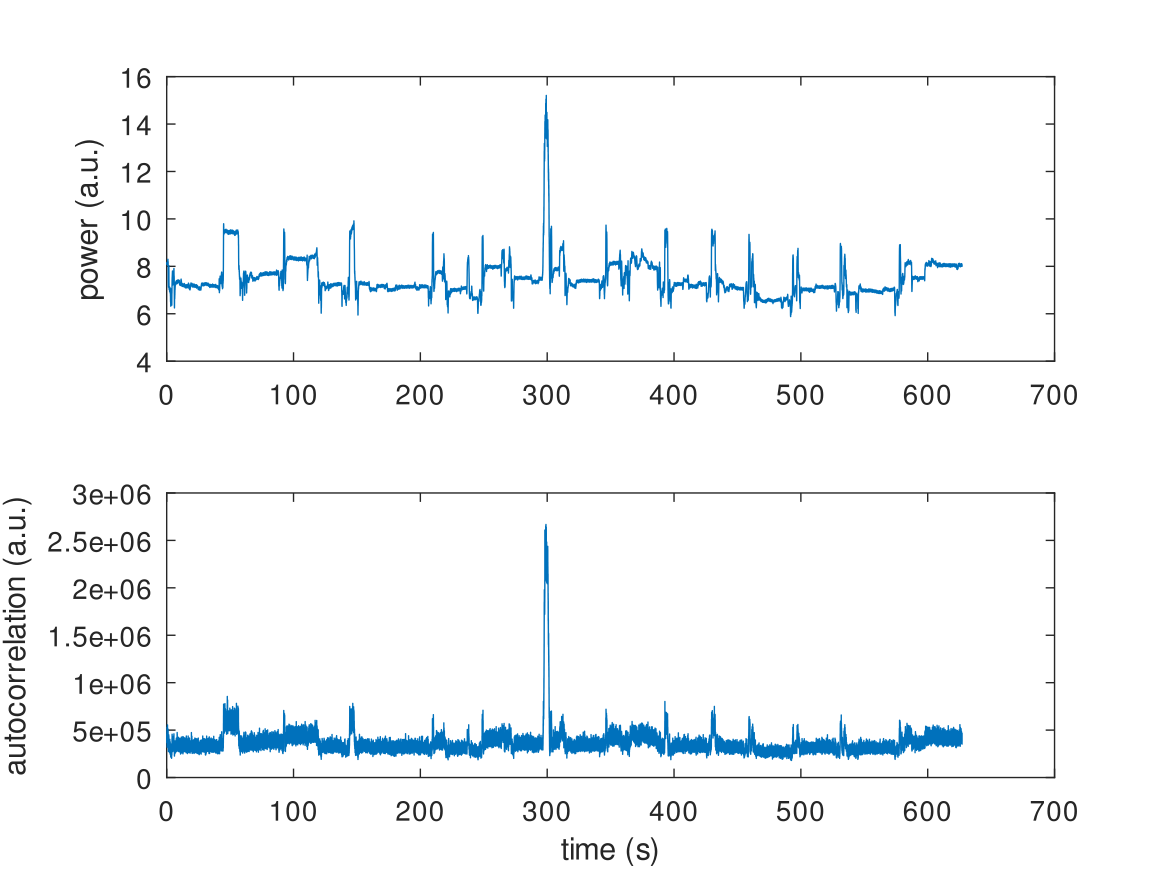
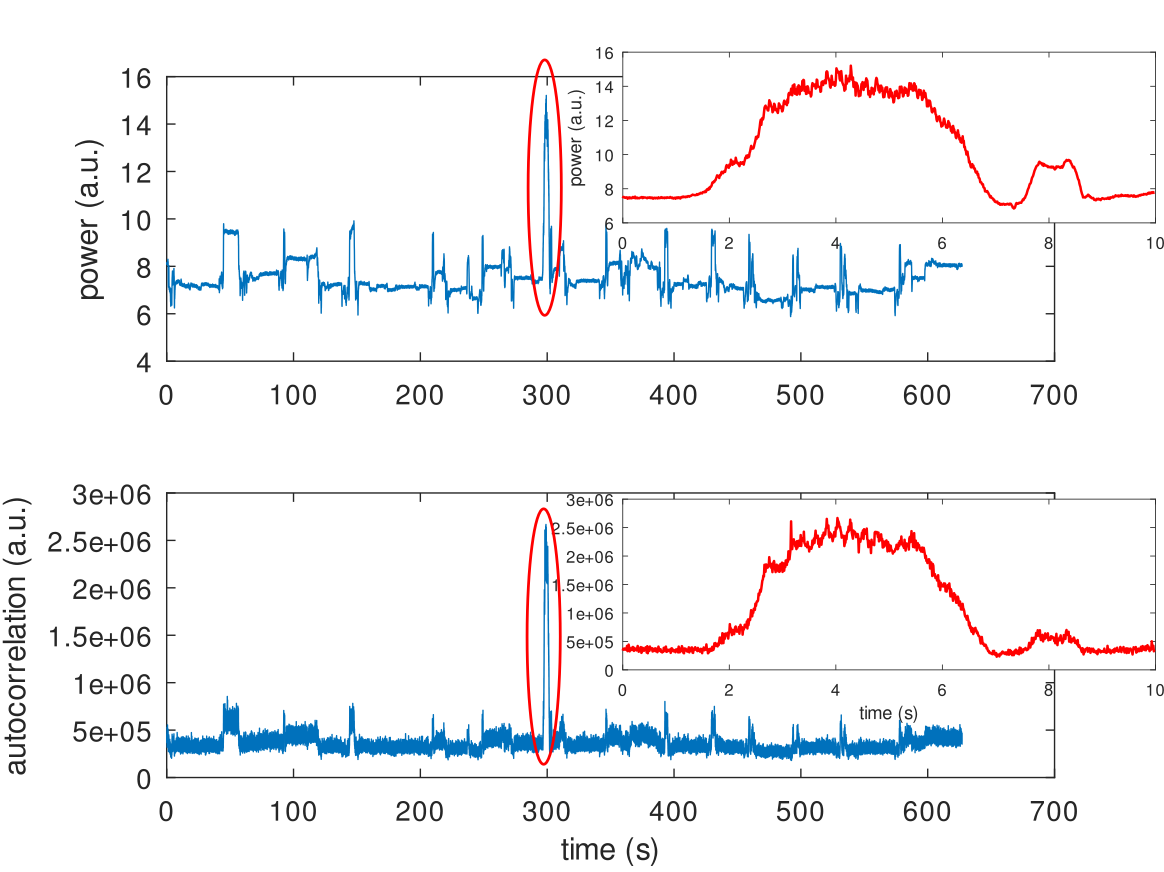
first successful recording Dec. 27 2025

diff --git a/README.md b/README.md
@@ -137,6 +137,10 @@ off-center auto-correlation (the 0-delay autocorrelation is the variance) of the
 
 <img src="251227/nisar_abs_time.png">
 
+and the time-domain chirp including its duration and repetition interval
+
+<img src="251227/nisar_real_time.png">
+
 and deduced non-constant pulse repetition interval:
 
 <img src="251227/nisar_PRI.png">
